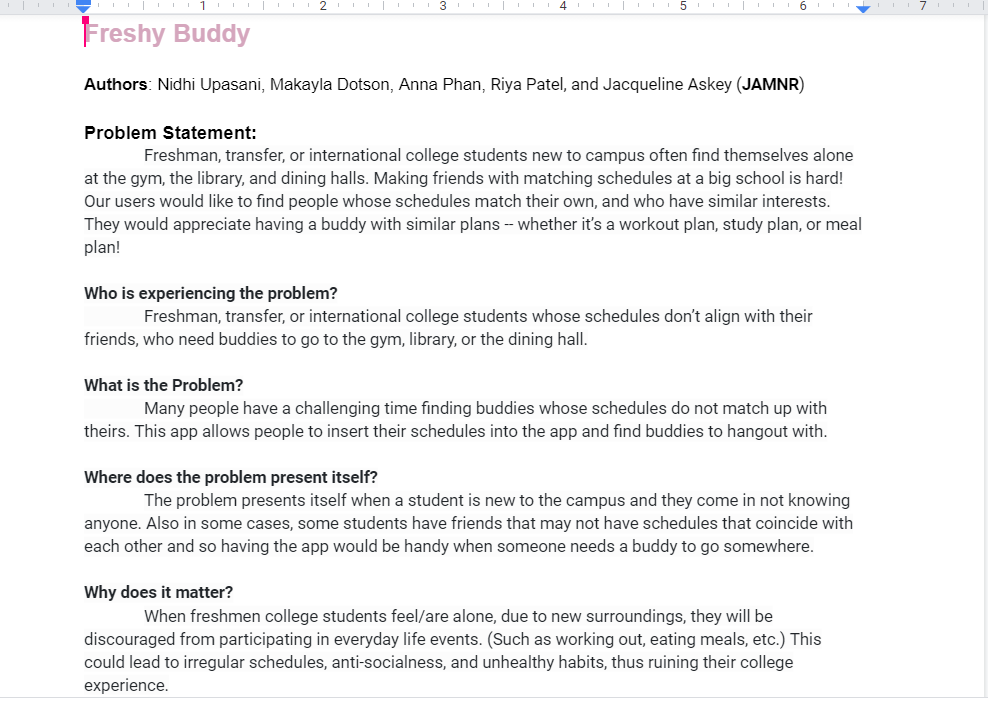
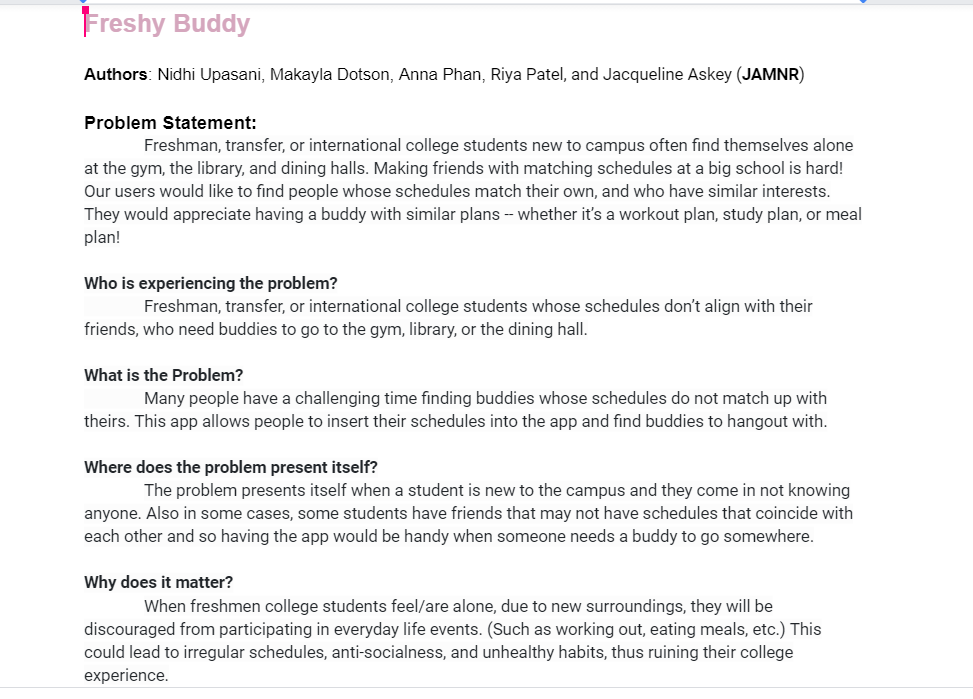
Add files via upload

diff --git a/index.html b/index.html
@@ -5,5 +5,15 @@
     </head>
     <body>
         <h1>Makayla Dotson's CSCE 190 Site</h1>
+
+        <section class="assignment">
+            <a href="files/problem-statement.pdf"><img src="Images/problem-statement.png"></a>
+            <section class="ass-details">
+                <a href="files/problem-statement.pdf"><h2>Problem Statement: Freshy Buddy</h2></a>
+                <p>
+                    Freshman, transfer, or international college students new to campus often find themselves alone at the gym, the library, and dining halls. Making friends with matching schedules at a big school is hard! Our users would like to find people whose schedules match their own, and who have similar interests. They would appreciate having a buddy with similar plans -- whether it’s a workout plan, study plan, or meal plan!
+                </p>
+            </section>
+        </section>
     </body>
 </html>
